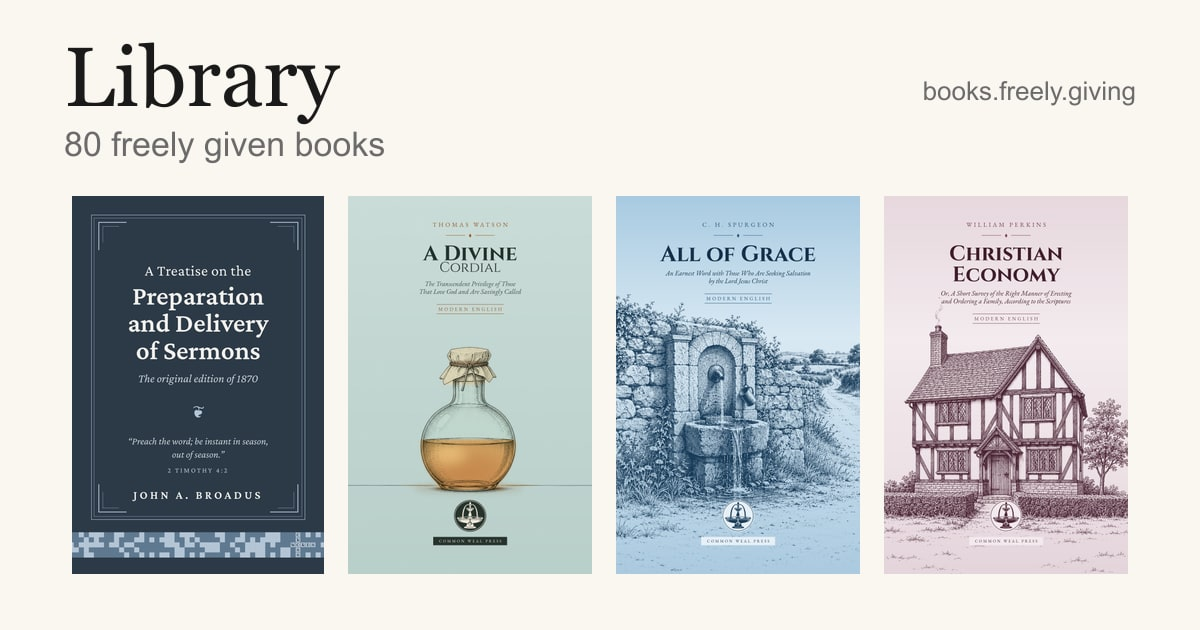
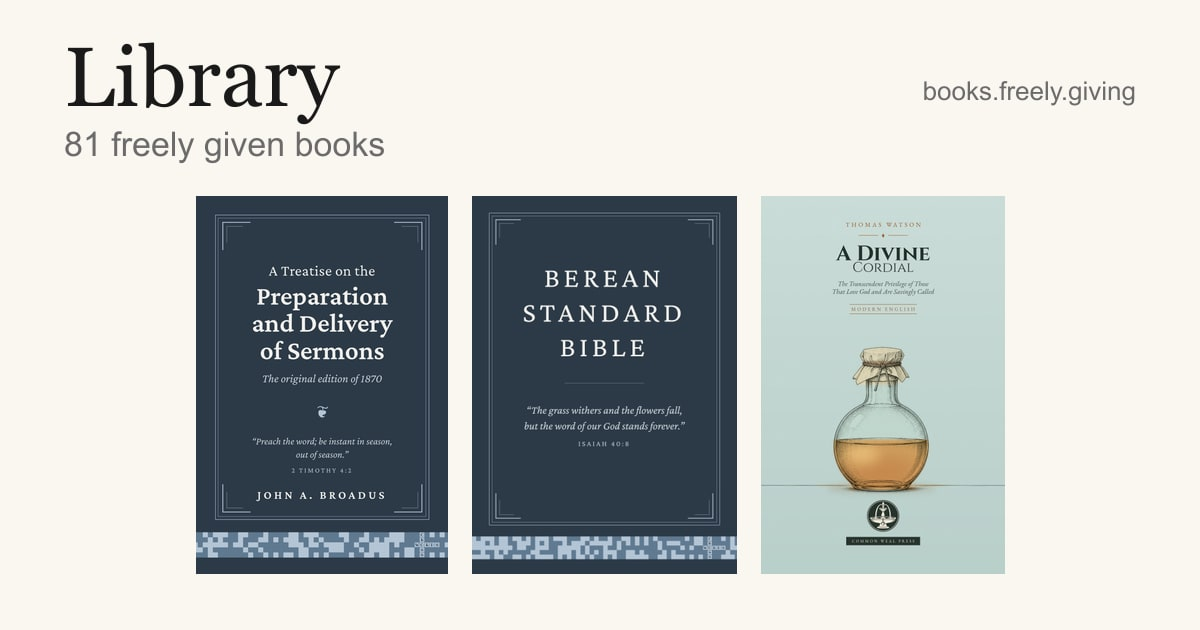
Add the Berean Standard Bible (prepared edition: two columns, Yahweh, you+, What's New page)

diff --git a/data/src/books/berean-standard-bible/content/berean-standard-bible-whats-new.html b/data/src/books/berean-standard-bible/content/berean-standard-bible-whats-new.html
@@ -1,0 +1,60 @@
+<!doctype html>
+<html lang="en"><head><meta charset="utf-8">
+<meta name="viewport" content="width=device-width, initial-scale=1">
+<title>Berean Standard Bible: what is different in this edition</title>
+<style>
+:root{--bg:#fbfaf7;--fg:#222;--muted:#6b6b6b;--rule:#dedbd2;--panel:#f1eee6;--mark:#fde68a;--markln:#b45309}
+@media (prefers-color-scheme: dark){:root:not([data-theme="light"]){--bg:#1c1b19;--fg:#e7e4dc;--muted:#a19d93;--rule:#3a3833;--panel:#26241f;--mark:#5b4a12;--markln:#f5b041}}
+:root[data-theme="dark"]{--bg:#1c1b19;--fg:#e7e4dc;--muted:#a19d93;--rule:#3a3833;--panel:#26241f;--mark:#5b4a12;--markln:#f5b041}
+*{box-sizing:border-box}
+body{margin:0;background:var(--bg);color:var(--fg);font:17px/1.55 "Iowan Old Style","Palatino Linotype",Palatino,Georgia,serif}
+main{max-width:1100px;margin:0 auto;padding:24px 16px 80px}
+h1{font-size:26px;margin:0 0 18px}h2{font-size:20px;margin:32px 0 8px}
+p{margin:0 0 .8em;max-width:46em}
+.ex{background:var(--panel);border-left:3px solid var(--rule);padding:8px 12px;max-width:46em}
+.sc{font-variant:small-caps}
+table{border-collapse:collapse;width:100%;margin-top:8px}
+th,td{text-align:left;vertical-align:top;padding:10px 12px;border-top:1px solid var(--rule)}
+thead th{font:600 12px/1 system-ui,sans-serif;letter-spacing:.06em;text-transform:uppercase;color:var(--muted);border-top:none}
+tbody th{white-space:nowrap;font-weight:600}
+.src{display:block;font:12px/1.4 system-ui,sans-serif;color:var(--muted);font-weight:400}
+mark{background:var(--mark);color:inherit;box-shadow:inset 0 -1px 0 var(--markln);border-radius:2px}
+.none{color:var(--muted);font-style:italic}
+@media (max-width:700px){thead{display:none}tr,th,td{display:block}tbody th{border-top:2px solid var(--rule);padding-bottom:0}td{border-top:none;padding-top:4px}td:nth-of-type(1)::before{content:"BSB: ";font-weight:600}td:nth-of-type(2)::before{content:"This edition: ";font-weight:600}}
+</style></head><body><main>
+<h1>Berean Standard Bible: what is different in this edition</h1>
+
+<h2>Yahweh</h2>
+<p>Where the BSB prints <span class="sc">Lord</span> or <span class="sc">God</span> in small capitals, standing for God’s name in the Hebrew, this edition prints the name itself: Yahweh. That is 5,844 verses.</p>
+<p class="ex">Psalm 23:1 — Yahweh is my shepherd; I shall not want.</p>
+
+<h2>You+</h2>
+<p>English “you” can mean one person or many. Where the Hebrew or Greek is plural, this edition marks it “you+,” “your+” or “yours+.” That is 3,546 verses.</p>
+<p class="ex">Matthew 5:13 — You<sup>+</sup> are the salt of the earth.</p>
+
+<h2>Verses that differ</h2>
+<p>These 21 verses are marked † in the book. Differences from the BSB are highlighted.</p>
+<table><thead><tr><th>Verse</th><th>BSB</th><th>This edition</th></tr></thead><tbody>
+<tr><th scope="row">Matthew 17:21<span class="src">King James Version</span></th><td><span class="none">(The BSB omits this verse.)</span></td><td>Howbeit this kind goeth not out but by prayer and fasting.</td></tr>
+<tr><th scope="row">Matthew 18:11<span class="src">King James Version</span></th><td><span class="none">(The BSB omits this verse.)</span></td><td>For the Son of man is come to save that which was lost.</td></tr>
+<tr><th scope="row">Matthew 23:14<span class="src">King James Version</span></th><td><span class="none">(The BSB omits this verse.)</span></td><td>Woe unto you, scribes and Pharisees, hypocrites! for ye devour widows&#x27; houses, and for a pretence make long prayer: therefore ye shall receive the greater damnation.</td></tr>
+<tr><th scope="row">Mark 7:16<span class="src">King James Version</span></th><td><span class="none">(The BSB omits this verse.)</span></td><td>If any man have ears to hear, let him hear.</td></tr>
+<tr><th scope="row">Mark 9:44<span class="src">King James Version</span></th><td><span class="none">(The BSB omits this verse.)</span></td><td>Where their worm dieth not, and the fire is not quenched.</td></tr>
+<tr><th scope="row">Mark 9:46<span class="src">King James Version</span></th><td><span class="none">(The BSB omits this verse.)</span></td><td>Where their worm dieth not, and the fire is not quenched.</td></tr>
+<tr><th scope="row">Mark 11:26<span class="src">King James Version</span></th><td><span class="none">(The BSB omits this verse.)</span></td><td>But if ye do not forgive, neither will your Father which is in heaven forgive your trespasses.</td></tr>
+<tr><th scope="row">Mark 15:28<span class="src">King James Version</span></th><td><span class="none">(The BSB omits this verse.)</span></td><td>And the scripture was fulfilled, which saith, And he was numbered with the transgressors.</td></tr>
+<tr><th scope="row">Luke 17:36<span class="src">King James Version</span></th><td><span class="none">(The BSB omits this verse.)</span></td><td>Two men shall be in the field; the one shall be taken, and the other left.</td></tr>
+<tr><th scope="row">Luke 23:17<span class="src">King James Version</span></th><td><span class="none">(The BSB omits this verse.)</span></td><td>(For of necessity he must release one unto them at the feast.)</td></tr>
+<tr><th scope="row">John 5:4<span class="src">King James Version</span></th><td><span class="none">(The BSB omits this verse.)</span></td><td>For an angel went down at a certain season into the pool, and troubled the water: whosoever then first after the troubling of the water stepped in was made whole of whatsoever disease he had.</td></tr>
+<tr><th scope="row">Acts 8:37<span class="src">King James Version</span></th><td><span class="none">(The BSB omits this verse.)</span></td><td>And Philip said, If thou believest with all thine heart, thou mayest. And he answered and said, I believe that Jesus Christ is the Son of God.</td></tr>
+<tr><th scope="row">Acts 15:34<span class="src">King James Version</span></th><td><span class="none">(The BSB omits this verse.)</span></td><td>Notwithstanding it pleased Silas to abide there still.</td></tr>
+<tr><th scope="row">Acts 24:7<span class="src">King James Version</span></th><td><span class="none">(The BSB omits this verse.)</span></td><td>But the chief captain Lysias came upon us, and with great violence took him away out of our hands,</td></tr>
+<tr><th scope="row">Acts 28:29<span class="src">King James Version</span></th><td><span class="none">(The BSB omits this verse.)</span></td><td>And when he had said these words, the Jews departed, and had great reasoning among themselves.</td></tr>
+<tr><th scope="row">Romans 16:24<span class="src">King James Version</span></th><td><span class="none">(The BSB omits this verse.)</span></td><td>The grace of our Lord Jesus Christ be with you all. Amen.</td></tr>
+<tr><th scope="row">Ephesians 4:12<span class="src">King James Version</span></th><td>to equip the saints for works of ministry and to build up the body of Christ,</td><td><mark>For</mark> the <mark>perfecting of the saints,</mark> for <mark>the work</mark> of <mark>the ministry, for the edifying of</mark> the body of <mark>Christ:</mark></td></tr>
+<tr><th scope="row">1 Timothy 2:15<span class="src">revised</span></th><td>Women, however, will be saved through childbearing, if they continue in faith, love, and holiness, with self-control.</td><td><mark>She</mark> will be saved through childbearing, if they continue in faith, love, and holiness, with self-control.</td></tr>
+<tr><th scope="row">James 3:9<span class="src">revised</span></th><td>With the tongue we bless our Lord and Father, and with it we curse men, who have been made in God’s likeness.</td><td>With the tongue we bless our Lord and Father, and with it we curse <mark>men</mark> who have been made in God’s likeness.</td></tr>
+<tr><th scope="row">1 John 5:1<span class="src">King James Version</span></th><td>Everyone who believes that Jesus is the Christ has been born of God, and everyone who loves the Father also loves those born of Him.</td><td><mark>Whosoever believeth</mark> that Jesus is the Christ <mark>is</mark> born of <mark>God:</mark> and <mark>every one that loveth him that begat loveth him</mark> also <mark>that is begotten</mark> of <mark>him.</mark></td></tr>
+<tr><th scope="row">1 John 5:7<span class="src">King James Version</span></th><td>For there are three that testify:</td><td>For there are three that <mark>bear record in heaven, the Father, the Word, and the Holy Ghost: and these three are one.</mark></td></tr>
+</tbody></table>
+</main></body></html>
